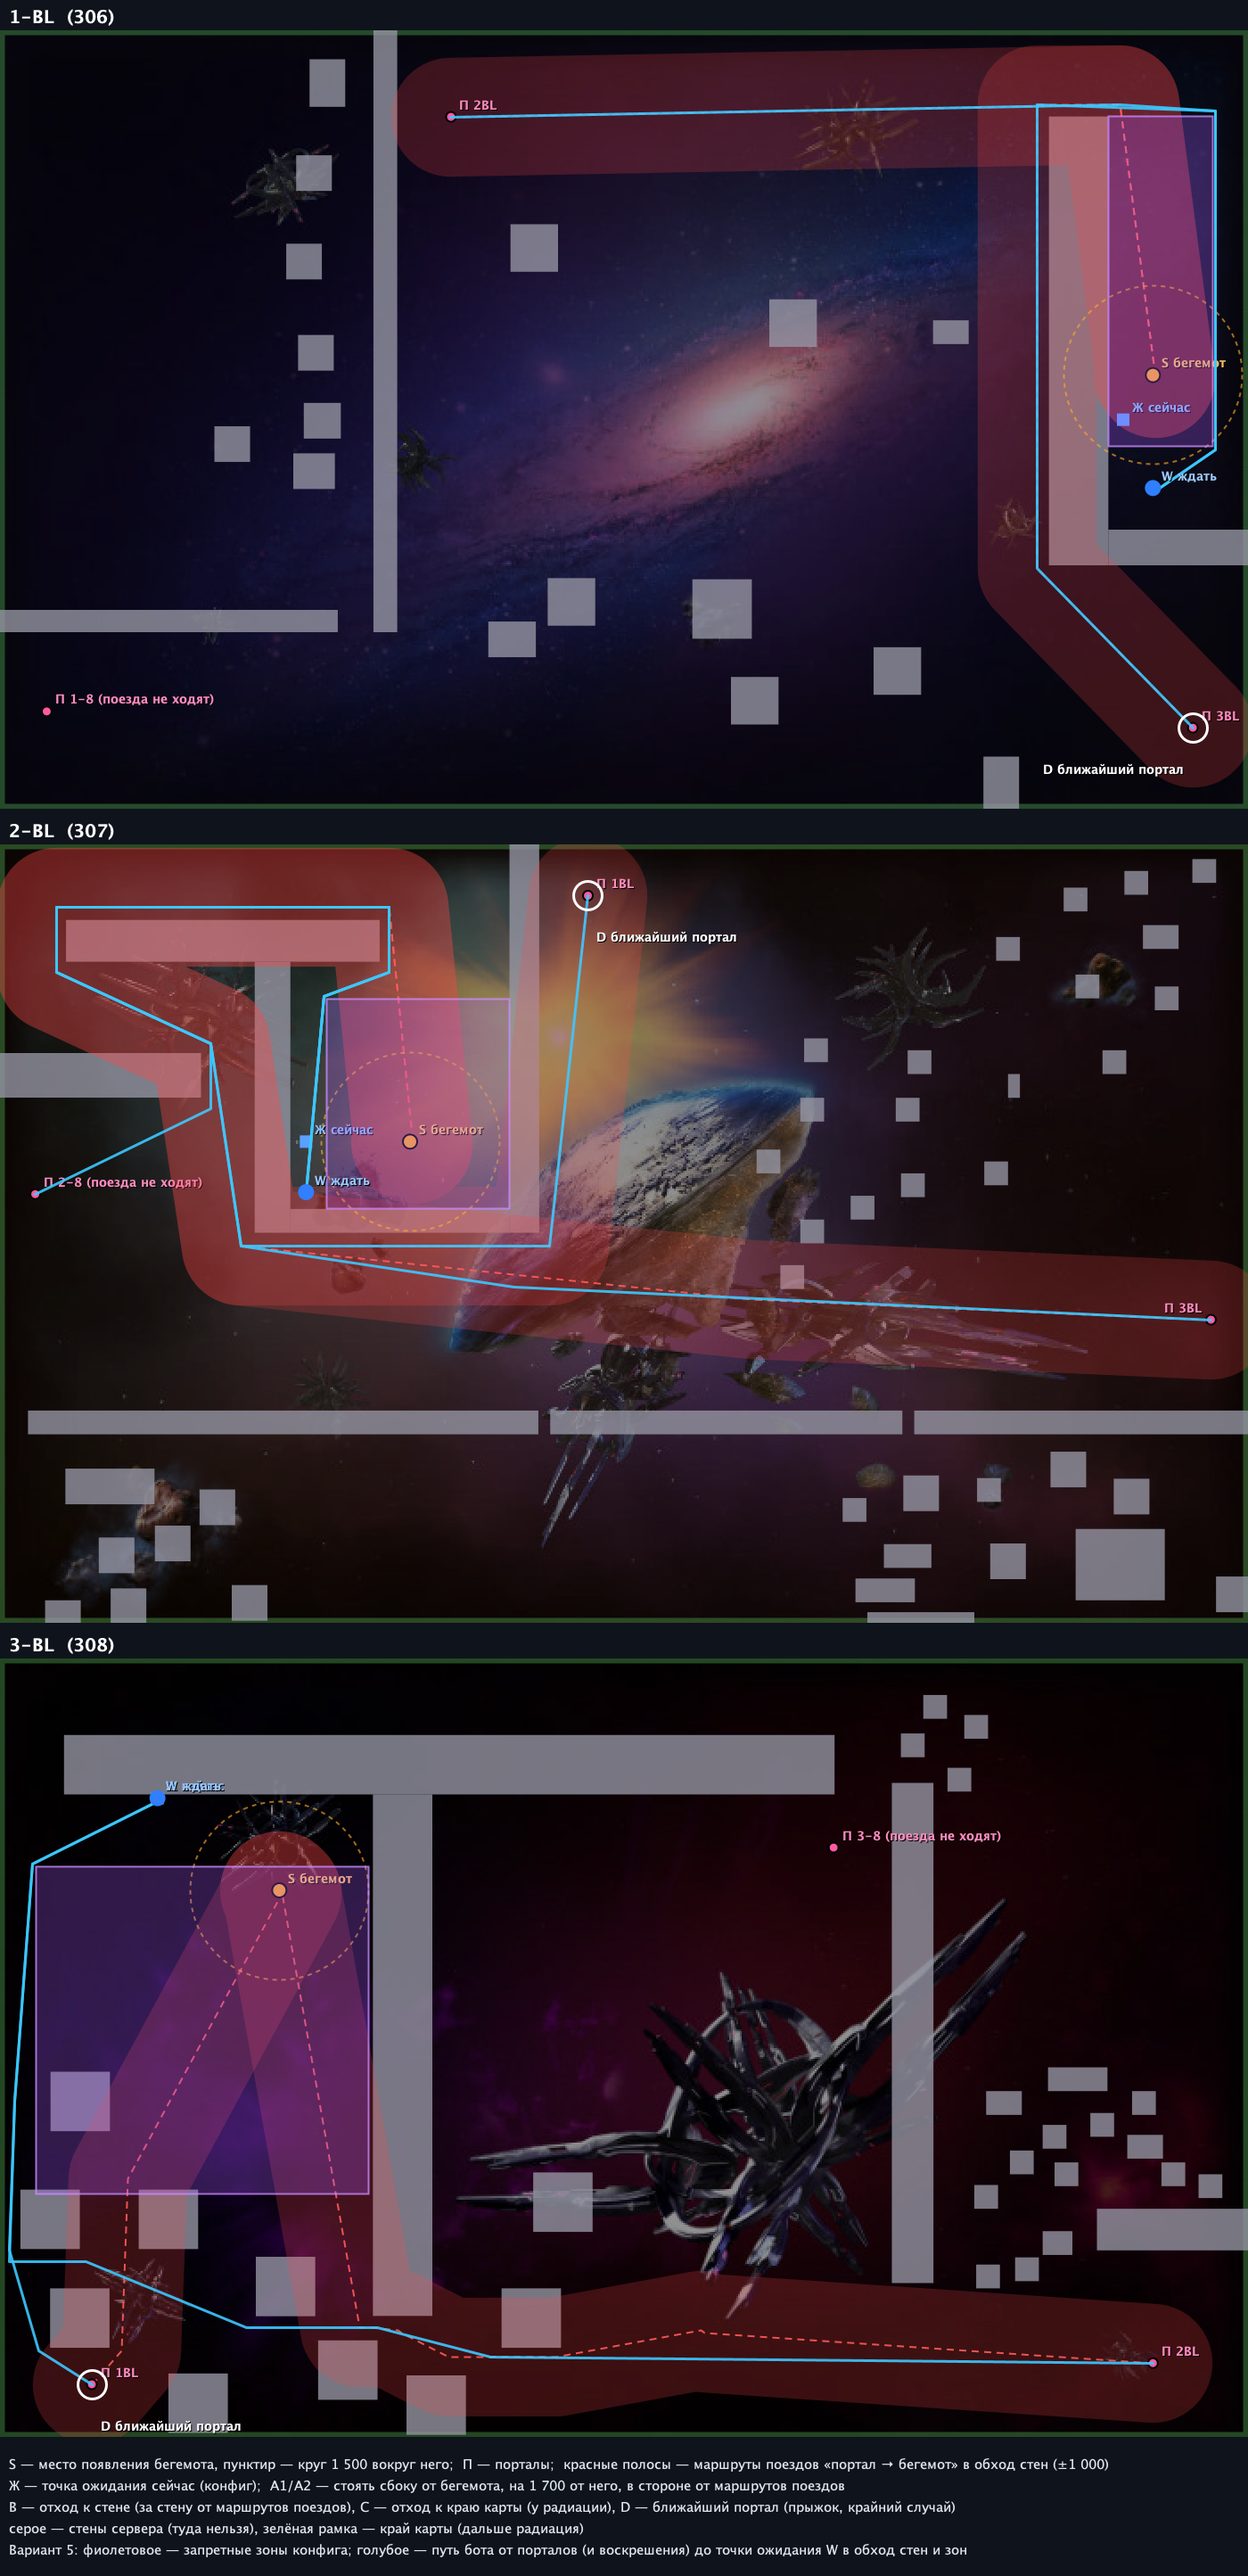
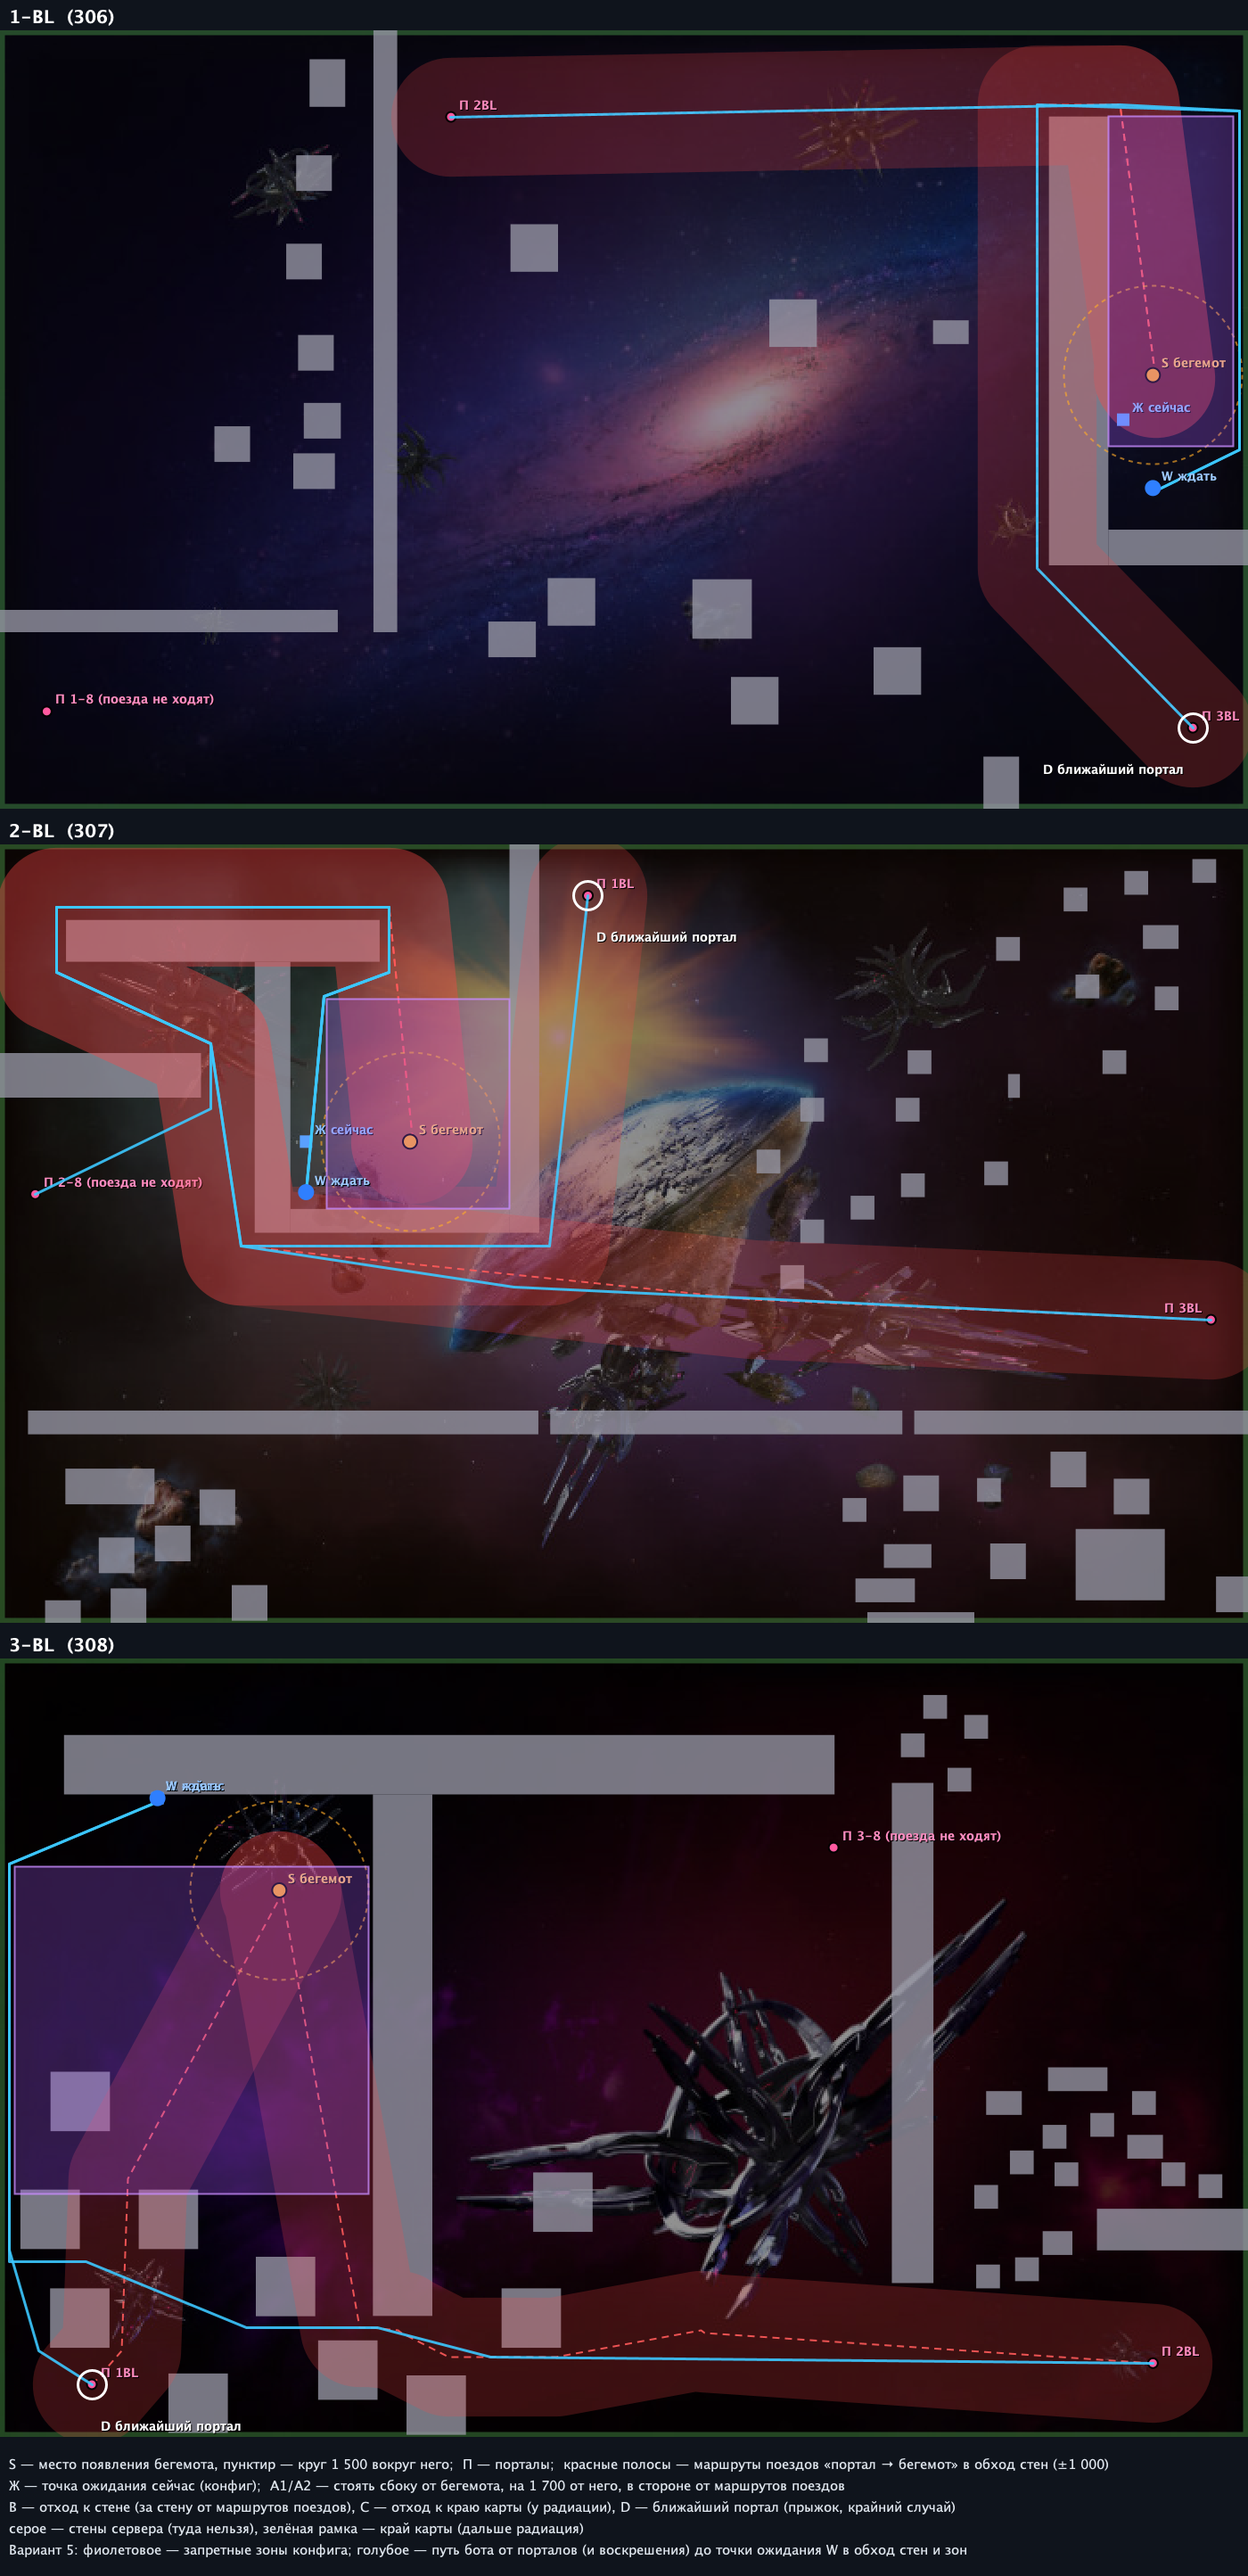
Narrow the approach strips along the radiation to the very map edge on 1-BL and 3-BL

Changed region(s): [[0.9521, 0.0312, 1.0, 0.1869], [0.0, 0.7165, 0.0307, 0.8723]]

diff --git a/tools/BlMap.java b/tools/BlMap.java
@@ -151,12 +151,12 @@ public class BlMap {
                 // the user (2026-11-20): on 1-BL along the radiation on the right, on 3-BL along it on the left — no
                 // train goes there; the config's avoided zones (rectangles here) close the middle
                 // only the approach inside the pocket (the user, 2026-11-20): 1-BL and 3-BL — right by the radiation, at the
-                // screen's edge (a strip of ~600 left open); 2-BL — the pocket closed but the strip under its top bar and
+                // screen's very edge (a strip of ~250 left open: the navigator keeps 80 off a zone, none off the edge); 2-BL — the pocket closed but the strip under its top bar and
                 // the one along its left wall: to the bottom-left corner along the wall, not across
                 double[][][] zones = {
-                    {{18650, 1450, 20400, 7000}},
+                    {{18650, 1450, 20750, 7000}},
                     {{5500, 2600, 8573, 6133}},
-                    {{600, 3500, 6200, 9000}}};
+                    {{250, 3500, 6200, 9000}}};
                 int[][][] from = {{{20072, 11732}, {7589, 1456}}, {{9893, 862}, {20377, 7996}, {593, 5884}},
                     {{1545, 12210}, {19400, 11854}}};
                 int[][] wait = {{19400, 7700}, {5150, 5850}, {2650, 2350}};
@@ -431,7 +431,7 @@ public class BlMap {
     static boolean freeCell(int cx, int cy) {
         double x = cx * CELL + CELL / 2.0, y = cy * CELL + CELL / 2.0;
         for (double[] z : extraBlocked) if (x >= z[0] && x <= z[2] && y >= z[1] && y <= z[3]) return false;
-        if (x < 150 || y < 150 || x > W - 150 || y > H - 150) return false;
+        if (x < 50 || y < 50 || x > W - 50 || y > H - 50) return false; // the bot's navigator keeps no room off the edge
         for (double[] w : walls) {
             if (w[3] < 0 ? Math.hypot(x - w[0], y - w[1]) < w[2] + ROUTE_MARGIN
                     : x > w[0] - ROUTE_MARGIN && x < w[2] + ROUTE_MARGIN && y > w[1] - ROUTE_MARGIN && y < w[3] + ROUTE_MARGIN) return false;

diff --git a/docs/BLACKLIGHT.md b/docs/BLACKLIGHT.md
@@ -634,12 +634,13 @@ VPS 19.11). Маршруты поездов «портал → бегемот» 
 
 | Карта | Зона «избегать» (x1..x2, y1..y2) | Как идёт бот |
 |---|---|---|
-| 1-BL | 18 650..20 400, 1 450..7 000 — карман, кроме полосы ~600 у правого края | карман закрыт снизу стеной до края карты: вход сверху, вниз вплотную к радиации справа, у точки — к ней |
+| 1-BL | 18 650..20 750, 1 450..7 000 — карман, кроме полосы ~250 у самого правого края | карман закрыт снизу стеной до края карты: вход сверху, вниз вплотную к радиации справа, у точки — к ней |
 | 2-BL | 5 500..8 573, 2 600..6 133 — карман, кроме полосы под верхней стеной и вдоль левой | правая стена кармана до верхнего края: к входу только слева, вокруг кармана (как поезда); в кармане — под верхней стеной влево и вниз вдоль левой стены в левый нижний угол |
-| 3-BL | 600..6 200, 3 500..9 000 — до полосы ~600 у левого края | от 1BL — вверх вплотную к радиации слева; от 2BL — низом мимо базы и вверх вдоль левого края |
+| 3-BL | 250..6 200, 3 500..9 000 — до полосы ~250 у самого левого края | от 1BL — вверх вплотную к радиации слева; от 2BL — низом мимо базы и вверх вдоль левого края |
 
 Уточнения пользователя (2026-11-20): у радиации — «прям возле края экрана»; на 2-BL точка — в левом нижнем углу
-кармана, лететь туда вдоль левой стены, не срезая.
+кармана, лететь туда вдоль левой стены, не срезая. Затем — «прямо у самих краёв»: полоса сужена с ~600 до ~250
+(навигатор держит 80 от зоны и не держит отступа от края карты, так что полоса проходима).
 
 Записано в «behe train - G1» (сетка 140, через `ConfigStore`): на 1-BL старая зона на весь правый коридор (17 700..21 000,
 1 400..8 900) **заменена** — в неё попадали и место бегемота, и точка ожидания, отсюда «Нет пути… запретная зона конфига
